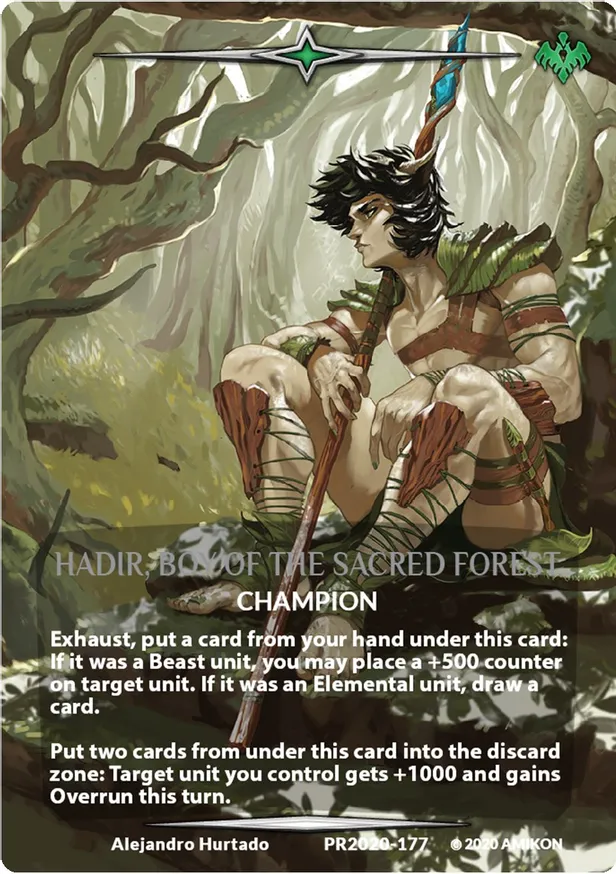
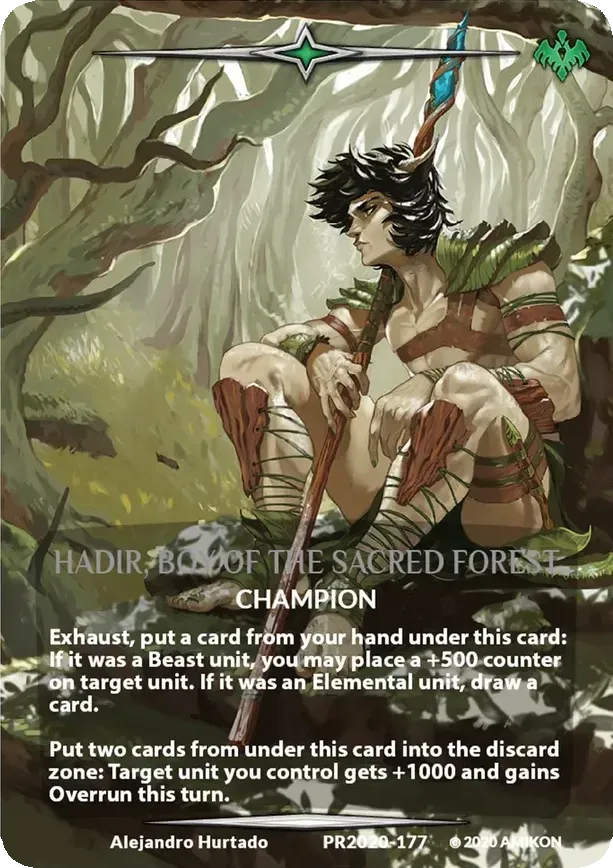
fix images

diff --git a/images/python-scripts/blue1.py b/images/python-scripts/blue1.py
@@ -1,0 +1,367 @@
+from PIL import Image
+import os
+import numpy as np
+
+
+def convertImage(filename):
+    # Gets the first image, then saves the data
+    img = Image.open(filename)
+    img = img.convert("RGBA")
+    datas = img.getdata()
+    width, height = img.size
+    newData = []
+
+    # Finds where to cut the borders
+    ls = findLeftSide(datas, width, height)
+    rs = findRightSide(datas, width, height)
+    ts = findTopSide(datas, width, height)
+    bs = findBottomSide(datas, width, height)
+
+    # Crops the image and restablishes borders
+    img = img.crop((ls, ts, rs, bs))
+    img = img.convert("RGBA")
+    datas = img.getdata()
+    width, height = img.size
+
+    for y in range(height):
+        for x in range(width):
+            item = datas.getpixel((x, y))
+            if x in range(35) and y in range(35):
+                if y == 0 and x in range(35):
+                    newData.append((255, 255, 255, 0))
+                elif y == 1 and x in range(32):
+                    newData.append((255, 255, 255, 0))
+                elif y == 2 and x in range(28):
+                    newData.append((255, 255, 255, 0))
+                elif y == 3 and x in range(25):
+                    newData.append((255, 255, 255, 0))
+                elif y == 4 and x in range(23):
+                    newData.append((255, 255, 255, 0))
+                elif y == 5 and x in range(20):
+                    newData.append((255, 255, 255, 0))
+                elif y == 6 and x in range(18):
+                    newData.append((255, 255, 255, 0))
+                elif y == 7 and x in range(16):
+                    newData.append((255, 255, 255, 0))
+                elif y == 8 and x in range(15):
+                    newData.append((255, 255, 255, 0))
+                elif y == 9 and x in range(14):
+                    newData.append((255, 255, 255, 0))
+                elif y == 10 and x in range(12):
+                    newData.append((255, 255, 255, 0))
+                elif y == 11 and x in range(12):
+                    newData.append((255, 255, 255, 0))
+                elif y == 12 and x in range(10):
+                    newData.append((255, 255, 255, 0))
+                elif y == 13 and x in range(10):
+                    newData.append((255, 255, 255, 0))
+                elif y == 14 and x in range(9):
+                    newData.append((255, 255, 255, 0))
+                elif y == 15 and x in range(8):
+                    newData.append((255, 255, 255, 0))
+                elif y == 16 and x in range(8):
+                    newData.append((255, 255, 255, 0))
+                elif y == 17 and x in range(7):
+                    newData.append((255, 255, 255, 0))
+                elif y == 18 and x in range(6):
+                    newData.append((255, 255, 255, 0))
+                elif y == 19 and x in range(5):
+                    newData.append((255, 255, 255, 0))
+                elif y == 20 and x in range(5):
+                    newData.append((255, 255, 255, 0))
+                elif y == 21 and x in range(5):
+                    newData.append((255, 255, 255, 0))
+                elif y == 22 and x in range(4):
+                    newData.append((255, 255, 255, 0))
+                elif y == 23 and x in range(4):
+                    newData.append((255, 255, 255, 0))
+                elif y == 24 and x in range(3):
+                    newData.append((255, 255, 255, 0))
+                elif y == 25 and x in range(3):
+                    newData.append((255, 255, 255, 0))
+                elif y == 26 and x in range(3):
+                    newData.append((255, 255, 255, 0))
+                elif y == 27 and x in range(2):
+                    newData.append((255, 255, 255, 0))
+                elif y == 28 and x in range(2):
+                    newData.append((255, 255, 255, 0))
+                elif y == 29 and x in range(2):
+                    newData.append((255, 255, 255, 0))
+                elif y == 30 and x in range(2):
+                    newData.append((255, 255, 255, 0))
+                elif y == 31 and x in range(1):
+                    newData.append((255, 255, 255, 0))
+                elif y == 32 and x in range(1):
+                    newData.append((255, 255, 255, 0))
+                elif y == 33 and x in range(1):
+                    newData.append((255, 255, 255, 0))
+                elif y == 34 and x in range(1):
+                    newData.append((255, 255, 255, 0))
+                else:
+                    newData.append(item)
+            elif x in range(width - 35, width) and y in range(35):
+                if y == 0 and x in range(width - 35, width):  # 29
+                    newData.append((255, 255, 255, 0))
+                elif y == 1 and x in range(width - 32, width):  # 24
+                    newData.append((255, 255, 255, 0))
+                elif y == 2 and x in range(width - 28, width):  # 21
+                    newData.append((255, 255, 255, 0))
+                elif y == 3 and x in range(width - 25, width):  # 19
+                    newData.append((255, 255, 255, 0))
+                elif y == 4 and x in range(width - 23, width):  # 18
+                    newData.append((255, 255, 255, 0))
+                elif y == 5 and x in range(width - 20, width):  # 16
+                    newData.append((255, 255, 255, 0))
+                elif y == 6 and x in range(width - 18, width):  # 14
+                    newData.append((255, 255, 255, 0))
+                elif y == 7 and x in range(width - 16, width):  # 13
+                    newData.append((255, 255, 255, 0))
+                elif y == 8 and x in range(width - 15, width):  # 12
+                    newData.append((255, 255, 255, 0))
+                elif y == 9 and x in range(width - 14, width):  # 10
+                    newData.append((255, 255, 255, 0))
+                elif y == 10 and x in range(width - 12, width):  # 10
+                    newData.append((255, 255, 255, 0))
+                elif y == 11 and x in range(width - 12, width):  # 9
+                    newData.append((255, 255, 255, 0))
+                elif y == 12 and x in range(width - 10, width):  # 8
+                    newData.append((255, 255, 255, 0))
+                elif y == 13 and x in range(width - 10, width):  # 7
+                    newData.append((255, 255, 255, 0))
+                elif y == 14 and x in range(width - 9, width):  # 6
+                    newData.append((255, 255, 255, 0))
+                elif y == 15 and x in range(width - 8, width):  # 6
+                    newData.append((255, 255, 255, 0))
+                elif y == 16 and x in range(width - 8, width):  # 5
+                    newData.append((255, 255, 255, 0))
+                elif y == 17 and x in range(width - 7, width):  # 4
+                    newData.append((255, 255, 255, 0))
+                elif y == 18 and x in range(width - 6, width):  # 4
+                    newData.append((255, 255, 255, 0))
+                elif y == 19 and x in range(width - 5, width):  # 3
+                    newData.append((255, 255, 255, 0))
+                elif y == 20 and x in range(width - 5, width):  # 3
+                    newData.append((255, 255, 255, 0))
+                elif y == 21 and x in range(width - 5, width):  # 2
+                    newData.append((255, 255, 255, 0))
+                elif y == 22 and x in range(width - 4, width):  # 2
+                    newData.append((255, 255, 255, 0))
+                elif y == 23 and x in range(width - 4, width):  # 2
+                    newData.append((255, 255, 255, 0))
+                elif y == 24 and x in range(width - 3, width):  # 1
+                    newData.append((255, 255, 255, 0))
+                elif y == 25 and x in range(width - 3, width):  # 1
+                    newData.append((255, 255, 255, 0))
+                elif y == 26 and x in range(width - 3, width):  # 1
+                    newData.append((255, 255, 255, 0))
+                elif y == 27 and x in range(width - 2, width):  # 1
+                    newData.append((255, 255, 255, 0))
+                elif y == 28 and x in range(width - 2, width):  # 1
+                    newData.append((255, 255, 255, 0))
+                elif y == 29 and x in range(width - 2, width):  # 1
+                    newData.append((255, 255, 255, 0))
+                elif y == 30 and x in range(width - 2, width):
+                    newData.append((255, 255, 255, 0))
+                elif y == 31 and x in range(width - 1, width):
+                    newData.append((255, 255, 255, 0))
+                elif y == 32 and x in range(width - 1, width):
+                    newData.append((255, 255, 255, 0))
+                elif y == 33 and x in range(width - 1, width):
+                    newData.append((255, 255, 255, 0))
+                elif y == 34 and x in range(width - 1, width):
+                    newData.append((255, 255, 255, 0))
+                else:
+                    newData.append(item)
+            elif x in range(33) and y in range(height - 31, height):
+                if y == height - 31 and x in range(1):  # 30      1
+                    newData.append((255, 255, 255, 0))
+                elif y == height - 30 and x in range(1):  # 30      1
+                    newData.append((255, 255, 255, 0))
+                elif y == height - 29 and x in range(2):  # 30      1
+                    newData.append((255, 255, 255, 0))
+                elif y == height - 28 and x in range(2):  # 24    1
+                    newData.append((255, 255, 255, 0))
+                elif y == height - 27 and x in range(3):  # 21    1
+                    newData.append((255, 255, 255, 0))
+                elif y == height - 26 and x in range(3):  # 19    1
+                    newData.append((255, 255, 255, 0))
+                elif y == height - 25 and x in range(3):  # 18    2
+                    newData.append((255, 255, 255, 0))
+                elif y == height - 24 and x in range(3):  # 16    2
+                    newData.append((255, 255, 255, 0))
+                elif y == height - 23 and x in range(4):  # 14    3
+                    newData.append((255, 255, 255, 0))
+                elif y == height - 22 and x in range(4):  # 13    3
+                    newData.append((255, 255, 255, 0))
+                elif y == height - 21 and x in range(4):  # 12   3
+                    newData.append((255, 255, 255, 0))
+                elif y == height - 20 and x in range(5):  # 11   4
+                    newData.append((255, 255, 255, 0))
+                elif y == height - 19 and x in range(5):  # 10   4
+                    newData.append((255, 255, 255, 0))
+                elif y == height - 18 and x in range(6):  # 9    5
+                    newData.append((255, 255, 255, 0))
+                elif y == height - 17 and x in range(7):  # 8    5
+                    newData.append((255, 255, 255, 0))
+                elif y == height - 16 and x in range(7):  # 7   6
+                    newData.append((255, 255, 255, 0))
+                elif y == height - 15 and x in range(8):  # 7   7
+                    newData.append((255, 255, 255, 0))
+                elif y == height - 14 and x in range(8):  # 6   7
+                    newData.append((255, 255, 255, 0))
+                elif y == height - 13 and x in range(9):  # 5   8
+                    newData.append((255, 255, 255, 0))
+                elif y == height - 12 and x in range(10):  # 5   9
+                    newData.append((255, 255, 255, 0))
+                elif y == height - 11 and x in range(11):  # 4   9
+                    newData.append((255, 255, 255, 0))
+                elif y == height - 10 and x in range(12):  # 3   11
+                    newData.append((255, 255, 255, 0))
+                elif y == height - 9 and x in range(13):  # 3   12
+                    newData.append((255, 255, 255, 0))
+                elif y == height - 8 and x in range(15):  # 3  13
+                    newData.append((255, 255, 255, 0))
+                elif y == height - 7 and x in range(16):  # 2   14
+                    newData.append((255, 255, 255, 0))
+                elif y == height - 6 and x in range(18):  # 2   16
+                    newData.append((255, 255, 255, 0))
+                elif y == height - 5 and x in range(20):  # 1   17
+                    newData.append((255, 255, 255, 0))
+                elif y == height - 4 and x in range(22):  # 1   19
+                    newData.append((255, 255, 255, 0))
+                elif y == height - 3 and x in range(24):  # 1   21
+                    newData.append((255, 255, 255, 0))
+                elif y == height - 2 and x in range(28):  # 1   25
+                    newData.append((255, 255, 255, 0))
+                elif y == height - 1 and x in range(33):  # 1   33
+                    newData.append((255, 255, 255, 0))
+                else:
+                    newData.append(item)
+            elif x in range(width - 33, width) and y in range(height - 31, height):
+                if y == height - 31 and x in range(width - 1, width):
+                    newData.append((255, 255, 255, 0))
+                elif y == height - 30 and x in range(width - 1, width):
+                    newData.append((255, 255, 255, 0))
+                elif y == height - 29 and x in range(width - 2, width):
+                    newData.append((255, 255, 255, 0))
+                elif y == height - 28 and x in range(width - 2, width):
+                    newData.append((255, 255, 255, 0))
+                elif y == height - 27 and x in range(width - 3, width):
+                    newData.append((255, 255, 255, 0))
+                elif y == height - 26 and x in range(width - 3, width):
+                    newData.append((255, 255, 255, 0))
+                elif y == height - 25 and x in range(width - 3, width):
+                    newData.append((255, 255, 255, 0))
+                elif y == height - 24 and x in range(width - 3, width):
+                    newData.append((255, 255, 255, 0))
+                elif y == height - 23 and x in range(width - 4, width):
+                    newData.append((255, 255, 255, 0))
+                elif y == height - 22 and x in range(width - 4, width):
+                    newData.append((255, 255, 255, 0))
+                elif y == height - 21 and x in range(width - 4, width):
+                    newData.append((255, 255, 255, 0))
+                elif y == height - 20 and x in range(width - 5, width):
+                    newData.append((255, 255, 255, 0))
+                elif y == height - 19 and x in range(width - 5, width):
+                    newData.append((255, 255, 255, 0))
+                elif y == height - 18 and x in range(width - 6, width):
+                    newData.append((255, 255, 255, 0))
+                elif y == height - 17 and x in range(width - 7, width):
+                    newData.append((255, 255, 255, 0))
+                elif y == height - 16 and x in range(width - 7, width):
+                    newData.append((255, 255, 255, 0))
+                elif y == height - 15 and x in range(width - 8, width):
+                    newData.append((255, 255, 255, 0))
+                elif y == height - 14 and x in range(width - 8, width):
+                    newData.append((255, 255, 255, 0))
+                elif y == height - 13 and x in range(width - 9, width):
+                    newData.append((255, 255, 255, 0))
+                elif y == height - 12 and x in range(width - 10, width):
+                    newData.append((255, 255, 255, 0))
+                elif y == height - 11 and x in range(width - 11, width):
+                    newData.append((255, 255, 255, 0))
+                elif y == height - 10 and x in range(width - 12, width):
+                    newData.append((255, 255, 255, 0))
+                elif y == height - 9 and x in range(width - 13, width):
+                    newData.append((255, 255, 255, 0))
+                elif y == height - 8 and x in range(width - 15, width):
+                    newData.append((255, 255, 255, 0))
+                elif y == height - 7 and x in range(width - 16, width):
+                    newData.append((255, 255, 255, 0))
+                elif y == height - 6 and x in range(width - 18, width):
+                    newData.append((255, 255, 255, 0))
+                elif y == height - 5 and x in range(width - 20, width):
+                    newData.append((255, 255, 255, 0))
+                elif y == height - 4 and x in range(width - 22, width):
+                    newData.append((255, 255, 255, 0))
+                elif y == height - 3 and x in range(width - 24, width):
+                    newData.append((255, 255, 255, 0))
+                elif y == height - 2 and x in range(width - 28, width):
+                    newData.append((255, 255, 255, 0))
+                elif y == height - 1 and x in range(width - 33, width):
+                    newData.append((255, 255, 255, 0))
+                else:
+                    newData.append(item)
+            else:
+                newData.append(item)
+
+    img.putdata(newData)
+    img.save(filename, "WEBP")
+    print("Success")
+
+
+def findLeftSide(datas, wi, hi):
+    for x in range(wi):
+        for y in range(hi):
+            pixel = datas.getpixel((x, y))
+            if pixel[0] < 113 and pixel[1] < 113 and pixel[2] < 113:
+                print(pixel)
+                return x
+
+
+def findRightSide(datas, wi, hi):
+    for x in reversed(range(wi)):
+        for y in range(hi):
+            pixel = datas.getpixel((x, y))
+            if pixel[0] < 113 and pixel[1] < 113 and pixel[2] < 113:
+                return x
+
+
+def findTopSide(datas, wi, hi):
+    for y in range(hi):
+        for x in range(wi):
+            pixel = datas.getpixel((x, y))
+            if pixel[0] < 113 and pixel[1] < 113 and pixel[2] < 113:
+                return y
+
+
+def findBottomSide(datas, wi, hi):
+    for y in reversed(range(hi)):
+        for x in range(wi):
+            pixel = datas.getpixel((x, y))
+            if pixel[0] < 113 and pixel[1] < 113 and pixel[2] < 113:
+                return y
+
+
+# convertImage("../Promos/fizzy-the-water-spirit.webp")
+# convertImage("../Promos/luna-the-dark-spirit.webp")
+# convertImage("../Promos/corona-the-fire-spirit.webp")
+# convertImage("../Promos/kyte-the-air-spirit.webp")
+# convertImage("../Promos/metaial-the-silver-king.webp")
+# convertImage("../Promos/carriermecha-kyari.webp")
+# convertImage("../Promos/lloyd-traveler-of-worlds.webp")
+# convertImage("../Promos/metaial-celestial-of-ruin.webp")
+convertImage("../Promos/hokken-archaeologist.webp")
+convertImage("../Promos/hadir-boy-of-the-sacred-forest.webp")
+convertImage("../Promos/fragment-of-the-forgotten-one.webp")
+convertImage("../Promos/hokken-warding-amulet.webp")
+convertImage("../Promos/neferia-the-queens-assassin.webp")
+convertImage("../Promos/pengardian-legend-hanzo.webp")
+convertImage("../Promos/renna-feral-warrior.webp")
+convertImage("../Promos/shardwork-arbiter.webp")
+convertImage("../Promos/tux-the-emperor-spirit-1.webp")
+convertImage("../Promos/hokken-archaeologist.webp")
+convertImage("../Promos/zane-hero-of-hyldia.webp")
+
+# convertImage("../Promos/tower-of-darkness.webp")
+# convertImage("../Promos/tower-of-light.webp")

diff --git a/images/python-scripts/blue.py b/images/python-scripts/blue.py
@@ -154,16 +154,9 @@ def convertImage(filename):
                     newData.append(pixel)
             else:
                 newData.append(pixel)
-        if count != 0:
-            print(
-                f"if x in range({count}) and y in range(height - {height - y}, height):"
-            )
-            print("    newData.append(255, 255, 255, 0)")
-            count = 0
-        tc = True
 
     img.putdata(newData)
-    # filename = filename.replace("../Promos/", "")
+    filename = filename.replace("../Promos/", "")
     img.save(filename, "WEBP")
     print("Success")
 
